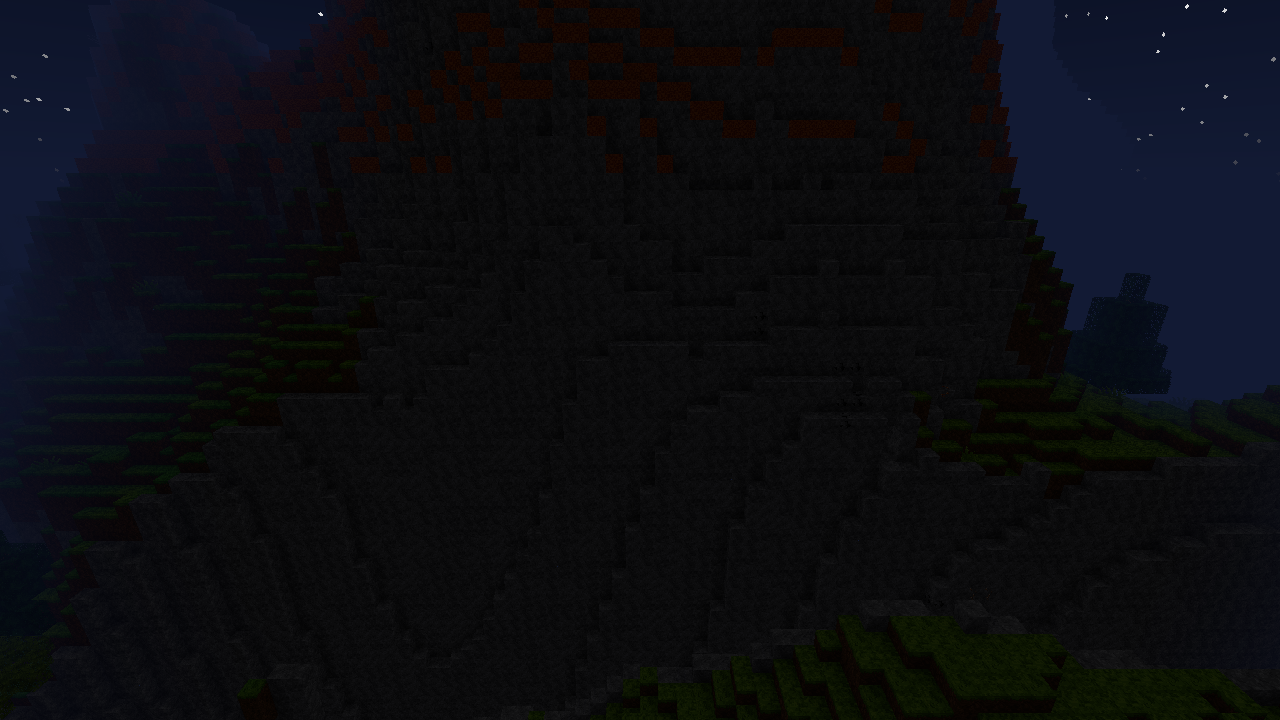
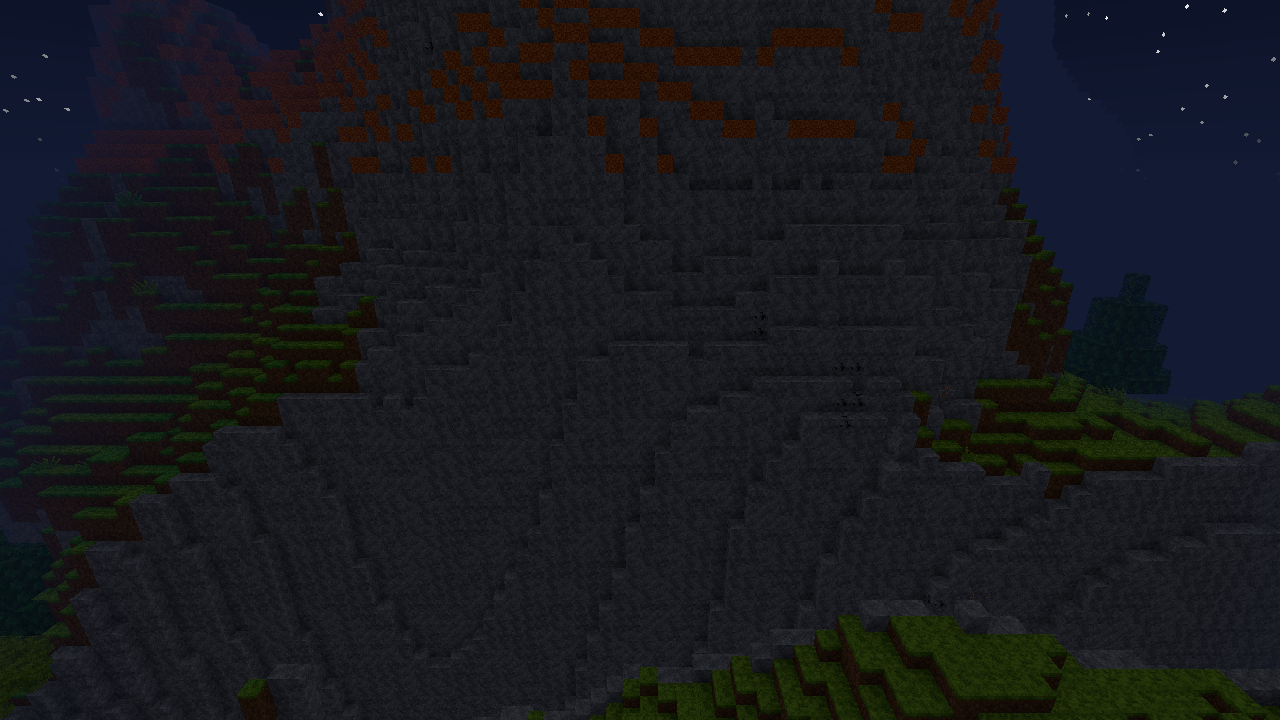
fix: readable moonlit nights (night light 0.4, cool moonlight tint)
Claude-Session: https://claude.ai/code/session_01RznEhak9j1HUkMPKL5bSvG

diff --git a/crates/client/src/sky/mod.rs b/crates/client/src/sky/mod.rs
@@ -180,7 +180,7 @@ mod tests {
         let midnight = SkyFrame::at(&sky, &cycle, cycle.moment(Moment::Midnight) as f64, true);
         assert_eq!((noon.light, noon.stars), (1.0, 0.0));
         assert!(noon.sun.y > 0.9 && midnight.sun.y < -0.9);
-        assert!(midnight.stars > 0.5 && midnight.light < 0.3);
+        assert!(midnight.stars > 0.5 && midnight.light < 0.5);
         assert!(midnight.zenith.length() < noon.zenith.length());
         assert!(noon.sun_size > 0.0 && noon.sun_layer != 0 && noon.moon_layer != 0);
         let no_stars = SkyFrame::at(&sky, &cycle, cycle.moment(Moment::Midnight) as f64, false);

diff --git a/crates/core/src/sky/cycle.rs b/crates/core/src/sky/cycle.rs
@@ -52,7 +52,7 @@ fn default_twilight() -> f64 {
 }
 
 fn default_night_light() -> f32 {
-    0.1
+    0.4
 }
 
 /// A bounded day cycle. Time 0 is the first sunrise; the world time keeps counting days.

diff --git a/docs/explications/jour-nuit-et-ciel.md b/docs/explications/jour-nuit-et-ciel.md
@@ -16,7 +16,7 @@ Tout le reste se **déduit** de ce seul nombre : position du soleil, clarté, co
 graph LR
     T[Temps du monde en ticks] --> F[Fraction du jour : 0 à 1]
     F --> S[Angle du soleil]
-    F --> L[Clarté du ciel : 0,1 à 1]
+    F --> L[Clarté du ciel : 0,4 à 1]
     F --> G[Lueur du crépuscule]
     T --> P[Phase de la lune : jours comptés de midi à midi, modulo 8]
     T --> N[Dérive des nuages]
@@ -31,13 +31,13 @@ Le fichier de la dimension (`dimensions/terra.ron`, section `day`) donne quatre 
 | `length` | ticks d'un jour complet | 24 000 |
 | `day_share` | part du cycle où le soleil est levé | 0,5 |
 | `twilight` | part du cycle que prend chaque lever ou coucher pour éclaircir ou assombrir | 0,06 |
-| `night_light` | clarté du ciel la nuit, en part du plein jour | 0,1 |
+| `night_light` | clarté du ciel la nuit, en part du plein jour | 0,4 |
 
 Tout est **borné** : un pack ne peut pas demander un jour de 0 tick ni une nuit de 0 %. Le calcul clé est le **facteur du ciel** :
 
 1. On mesure la distance (en part de cycle) au lever ou au coucher le plus proche, positive le jour, négative la nuit.
 2. Une courbe douce (*smoothstep*) la transforme en 0 (nuit) à 1 (jour), avec une transition progressive autour du lever et du coucher.
-3. Le facteur final vaut `night_light + (1 − night_light) × cette valeur` : il ne descend jamais sous `night_light` (0,1 par défaut) et ne fait jamais de saut. Un test le vérifie tick par tick, y compris avec des jours très inégaux (70 % de jour).
+3. Le facteur final vaut `night_light + (1 − night_light) × cette valeur` : il ne descend jamais sous `night_light` (0,4 par défaut) et ne fait jamais de saut. Un test le vérifie tick par tick, y compris avec des jours très inégaux (70 % de jour).
 
 Le soleil fait un demi-tour pendant le jour et un demi-tour pendant la nuit, quelle que soit la part du jour : il se lève à l'est, passe haut vers le sud (le chemin est penché de `path_tilt` degrés) et se couche à l'ouest. La lune est à l'opposé. Elle a **8 phases**, une par nuit, de pleine à nouvelle puis de nouveau pleine. La phase change **à midi**, quand la lune est sous l'horizon : on ne la voit jamais changer.
 
@@ -66,7 +66,7 @@ Le **brouillard** du terrain prend la couleur de l'horizon du moment, **teintée
 
 ### La nuit sans remailler
 
-La clarté du ciel est un simple nombre dans l'uniforme de la caméra. Le shader des blocs le multiplie à la lumière du ciel de chaque sommet (voir [Lumière](lumiere.md)). Le terrain n'est donc **pas recalculé** quand la nuit tombe : seul ce nombre change. La nuit est plus sombre qu'avant (0,1 au lieu de 0,2), et le réglage de luminosité relève la courbe proportionnellement à son **carré** : à 50 %, seulement un quart du relèvement, donc le clair de lune reste lisible sans devenir du plein jour.
+La clarté du ciel est un simple nombre dans l'uniforme de la caméra. Le shader des blocs le multiplie à la lumière du ciel de chaque sommet (voir [Lumière](lumiere.md)). Le terrain n'est donc **pas recalculé** quand la nuit tombe : seul ce nombre change. Le réglage de luminosité relève la courbe proportionnellement à son **carré** : à 50 %, seulement un quart du relèvement. La nuit (0,4) laisse le relief et les silhouettes lisibles au clair de lune, environ six fois plus sombre que le jour en lumière réelle, et une teinte froide (`MOON_LIGHT`) sur la lumière du ciel la fait lire comme une nuit ; les torches et les feux, chauds, ressortent.
 
 ### Les nuages
 

diff --git a/docs/decisions.md b/docs/decisions.md
@@ -395,6 +395,7 @@ Une entrée courte par décision : contexte, choix, alternatives écartées. Les
 - **Plus tard (v1.0)** : biomes envoyés en palette par colonne (moins d'octets quand une colonne n'a qu'un ou deux biomes), avec le protocole multijoueur.
 - **Teinte du brouillard** : `colors.fog` multiplie l'horizon du ciel (donc l'heure : nuit sombre, lueur au crépuscule) ; moyenne linéaire des biomes chargés à ±24 blocs de la caméra (pas de 8), suivie en douceur (`sky::BiomeFog`, ~1,5 s pour les deux tiers du chemin ; captures : sans lissage). L'horizon **du ciel** prend la même teinte que le brouillard (`SkyFrame::with_fog_tint`) : le terrain noyé et le ciel derrière lui restent d'une seule couleur, ainsi que la couleur d'effacement et le fondu des nuages.
 - **Nuit** (remplace les valeurs de D046/D047) : `night_light` 0,2 → 0,1 (`terra.ron` et défaut), plancher d'ambiance 0,2 → 0,15, et le relèvement de la courbe par le réglage de luminosité croît comme le **carré** du réglage (50 % → un quart du relèvement, 100 % inchangé). Herbe de nuit loin des feux (`fire-night`) −25 %, terrain au clair de lune nettement plus sombre mais lisible ; plein jour inchangé.
+- **Nuit, réglage final** (clôture v0.2, remplace la ligne précédente pour `night_light`) : 0,1 rendait falaises et terrain illisibles au clair de lune (captures `cliff-night-42`, `sky-night`). `night_light` **0,4** (`terra.ron` et défaut), plancher d'ambiance 0,15 et relèvement au carré gardés : au réglage par défaut (50 %), valeur perçue ≈ 0,43 la nuit contre 1 le jour et 0,15 au fond d'une grotte (≈ 6,5 × plus sombre que le jour en linéaire). La lumière du ciel prend la nuit une teinte froide `MOON_LIGHT` (0,78 ; 0,88 ; 1,15) proportionnelle à `(1 − facteur du ciel) × ciel × (1 − chaleur)` : rien sous terre ni près d'une torche, dont la lumière chaude ressort d'autant mieux. Relief et silhouettes lisibles, pas le détail fin.
 
 ## D052 — Particules : système client à pool borné, définitions en pack, un seul appel de dessin (v0.2, jalon 9)
 

diff --git a/wiki-content/fr/mechanics/day-night.md b/wiki-content/fr/mechanics/day-night.md
@@ -8,7 +8,7 @@ Sur Terra, une journée dure **20 minutes** : environ 10 minutes de jour, 10 de 
 - **Le soleil et la lune** sont de gros pixels bien nets. La lune a **8 phases**, une par jour, de la pleine lune à la nouvelle lune, puis retour.
 - **Les étoiles** scintillent la nuit et s'effacent près de l'horizon et à l'aube.
 - **Les nuages** dérivent doucement, toujours dans le même sens, très haut : au-dessus des collines, sous les grands pics. Leur couleur suit l'heure (blancs le jour, rosés au crépuscule, gris sombre la nuit). Le vent ne les fait avancer que tant que le temps passe : en pause, ils s'arrêtent.
-- **La lumière du jour** baisse la nuit sans jamais tomber à zéro : on y voit encore un peu à la lueur du ciel. Depuis la 0.2, les nuits sont **nettement plus sombres** : le terrain au clair de lune reste lisible, mais une torche n'a jamais été aussi appréciée. Les lumières posées (torches, lanternes, pierre lumineuse) font la différence.
+- **La lumière du jour** baisse la nuit sans jamais tomber à zéro : on y voit encore un peu à la lueur du ciel. Depuis la 0.2, les nuits sont **bleutées** : au clair de lune, le relief et les silhouettes restent lisibles, mais pas les détails, et une torche n'a jamais été aussi appréciée. Les lumières posées (torches, lanternes, pierre lumineuse) font la différence.
 
 ## Régler l'heure
 

diff --git a/wiki-content/en/mechanics/day-night.md b/wiki-content/en/mechanics/day-night.md
@@ -8,7 +8,7 @@ On Terra, a day lasts **20 minutes**: about 10 minutes of daylight and 10 of nig
 - **The sun and moon** are big, crisp pixels. The moon has **8 phases**, one per day, from full moon to new moon and back.
 - **Stars** twinkle at night and fade near the horizon and at dawn.
 - **Clouds** drift gently, always the same way, very high up: above the hills, below the great peaks. Their colour follows the time (white by day, pinkish at twilight, dark grey at night). They only move while time passes: when the game is paused, they stop.
-- **Daylight** drops at night but never to zero: you can still see a little by the glow of the sky. Since 0.2, nights are **noticeably darker**: moonlit terrain stays readable, but a torch has never been more welcome. Placed lights (torches, lanterns, glowstone) make the difference.
+- **Daylight** drops at night but never to zero: you can still see a little by the glow of the sky. Since 0.2, nights are **bluish**: by moonlight, shapes and slopes stay readable but not the details, and a torch has never been more welcome. Placed lights (torches, lanterns, glowstone) make the difference.
 
 ## Setting the time
 

diff --git a/wiki-content/lol/mechanics/day-night.md b/wiki-content/lol/mechanics/day-night.md
@@ -8,7 +8,7 @@ ON TERRA, A DAI IZ **20 MINUTZ**: ABOUT 10 MINUTZ OV SUNNY AN 10 OV NITE, WIF A 
 - **TEH SUN AN MUN** R BIG CRISPY PIXELZ. TEH MUN HAZ **8 SHAEPZ**, 1 PER DAI, FROM ROUND MUN 2 NO MUN AN BAK.
 - **SHINY DOTZ** TWINKLE AT NITE AN GO AWAY NEAR TEH FAR EDGE AN IN TEH MORNIN.
 - **FLUFFEHS** FLOAT BY SLOW, ALWAYS TEH SAEM WAI, WAI UP HIGH: ABOVE TEH HILLZ, BELOW TEH BIG ROCKZ. THEIR COLOR FOLLOWZ TEH TIEM (WHITE IN TEH DAI, PINKISH WEN SUN GOEZ DOWN, DARK GREY AT NITE). THEY ONLY MOOV WHILE TIEM PASSEZ: WEN GAEM IZ PAWSD, THEY STOP.
-- **DAYLITE** GOEZ DOWN AT NITE BUT NEVR 2 ZERO: U CAN STILL SEE A LIL BIT. SINCE 0.2, NITEZ R **WAY DARKR**: MUNLITE GROUND IZ STILL EZ 2 SEE, BUT A FIRE STIK HAZ NEVR BEEN MOAR WELCUM. LITEZ U PUT (FIRE STIKZ, GLOWY BOXEZ, GLOWY ROCK) MAEK TEH DIFFRENCE.
+- **DAYLITE** GOEZ DOWN AT NITE BUT NEVR 2 ZERO: U CAN STILL SEE A LIL BIT. SINCE 0.2, NITEZ R **BLOOISH**: BY MUNLITE U SEE TEH SHAPEZ BUT NOT TEH LIL DETAILZ, AN A FIRE STIK HAZ NEVR BEEN MOAR WELCUM. LITEZ U PUT (FIRE STIKZ, GLOWY BOXEZ, GLOWY ROCK) MAEK TEH DIFFRENCE.
 
 ## SETTIN TEH TIEM
 

diff --git a/docs/explications/lumiere.md b/docs/explications/lumiere.md
@@ -12,7 +12,7 @@ Chaque case du monde porte deux niveaux de 0 à 15 :
 - la **lumière du ciel** : 15 en plein air, elle baisse sous un toit ;
 - la **lumière des blocs** : elle part des sources (torche 14, lanterne, pierre lumineuse et lave 15, valeur `light_emission` du pack) et baisse en s'éloignant.
 
-Elles restent séparées : la nuit ne baisse que le ciel, pas les torches. Le **facteur du ciel** (de 0,1 la nuit à 1 le jour, voir [Jour, nuit et ciel](jour-nuit-et-ciel.md)) est appliqué par le shader : les niveaux stockés ne changent pas et le terrain n'est pas remaillé.
+Elles restent séparées : la nuit ne baisse que le ciel, pas les torches. Le **facteur du ciel** (de 0,4 la nuit à 1 le jour, voir [Jour, nuit et ciel](jour-nuit-et-ciel.md)) est appliqué par le shader : les niveaux stockés ne changent pas et le terrain n'est pas remaillé.
 
 ### Propagation
 
